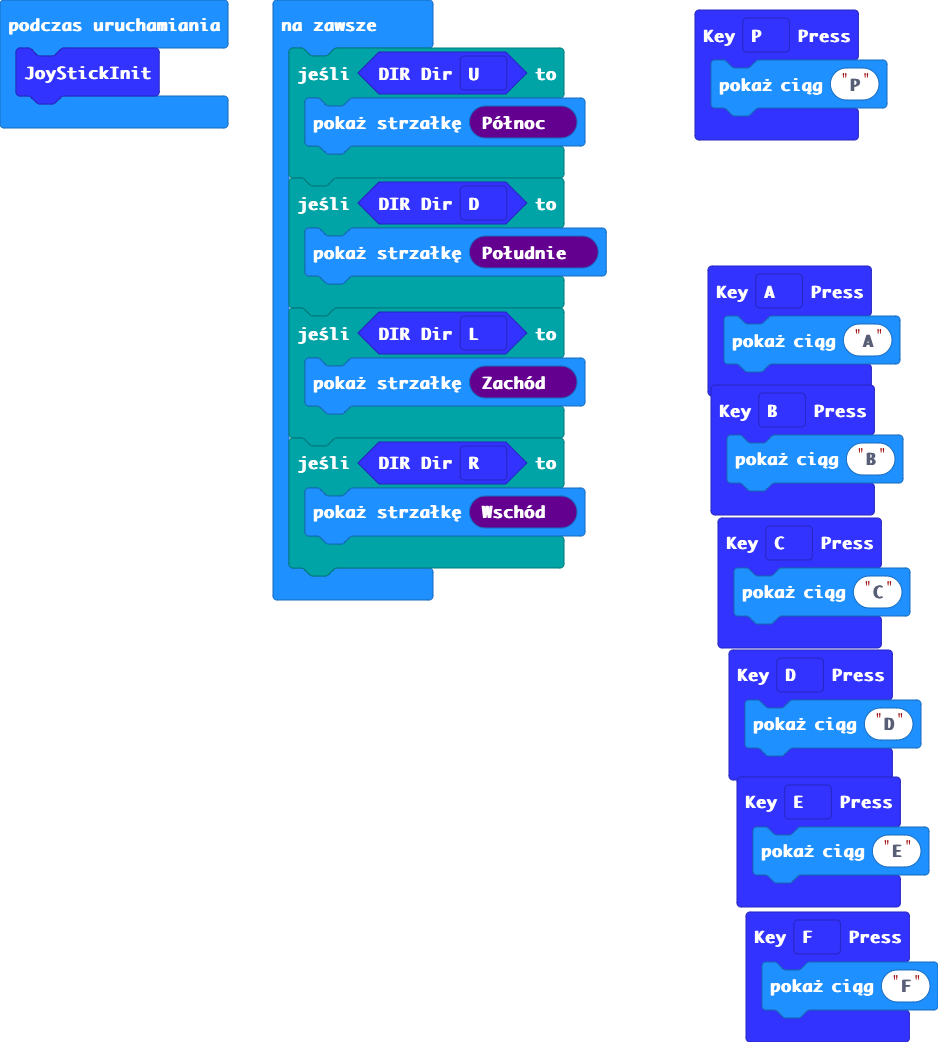
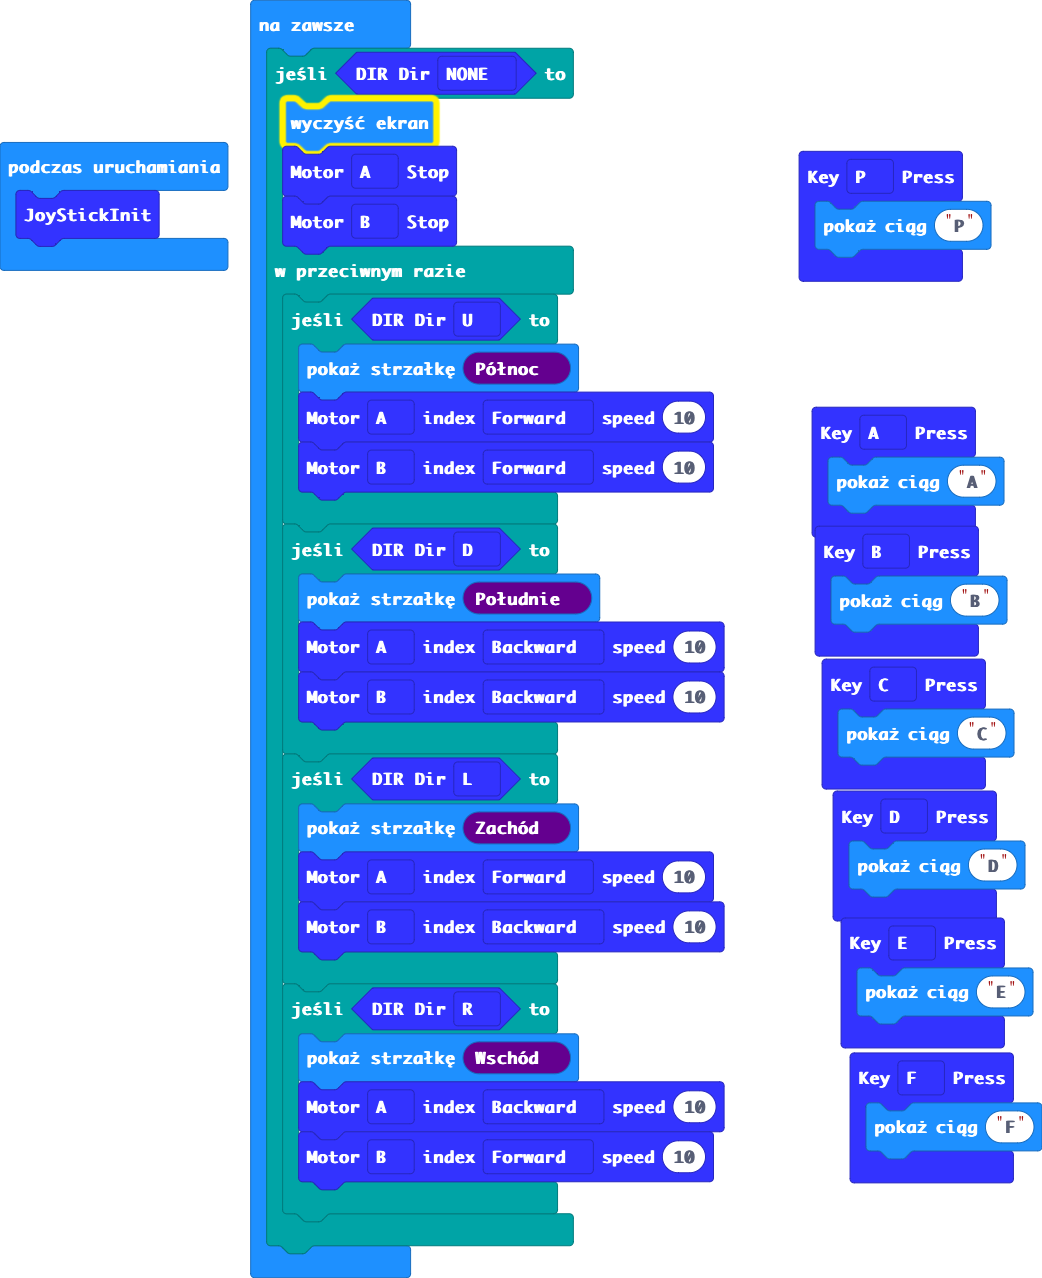
dodany silniki

diff --git a/main.ts b/main.ts
@@ -21,16 +21,30 @@ WSJoyStick.onKey(KEY.C, function () {
 })
 WSJoyStick.JoyStickInit()
 basic.forever(function () {
-    if (WSJoyStick.Listen_Dir(DIR.U)) {
-        basic.showArrow(ArrowNames.North)
-    }
-    if (WSJoyStick.Listen_Dir(DIR.D)) {
-        basic.showArrow(ArrowNames.South)
-    }
-    if (WSJoyStick.Listen_Dir(DIR.L)) {
-        basic.showArrow(ArrowNames.West)
-    }
-    if (WSJoyStick.Listen_Dir(DIR.R)) {
-        basic.showArrow(ArrowNames.East)
+    if (WSJoyStick.Listen_Dir(DIR.NONE)) {
+        basic.clearScreen()
+        MotorDriver.MotorStop(Motor.A)
+        MotorDriver.MotorStop(Motor.B)
+    } else {
+        if (WSJoyStick.Listen_Dir(DIR.U)) {
+            basic.showArrow(ArrowNames.North)
+            MotorDriver.MotorRun(Motor.A, Dir.forward, 10)
+            MotorDriver.MotorRun(Motor.B, Dir.forward, 10)
+        }
+        if (WSJoyStick.Listen_Dir(DIR.D)) {
+            basic.showArrow(ArrowNames.South)
+            MotorDriver.MotorRun(Motor.A, Dir.backward, 10)
+            MotorDriver.MotorRun(Motor.B, Dir.backward, 10)
+        }
+        if (WSJoyStick.Listen_Dir(DIR.L)) {
+            basic.showArrow(ArrowNames.West)
+            MotorDriver.MotorRun(Motor.A, Dir.forward, 10)
+            MotorDriver.MotorRun(Motor.B, Dir.backward, 10)
+        }
+        if (WSJoyStick.Listen_Dir(DIR.R)) {
+            basic.showArrow(ArrowNames.East)
+            MotorDriver.MotorRun(Motor.A, Dir.backward, 10)
+            MotorDriver.MotorRun(Motor.B, Dir.forward, 10)
+        }
     }
 })
